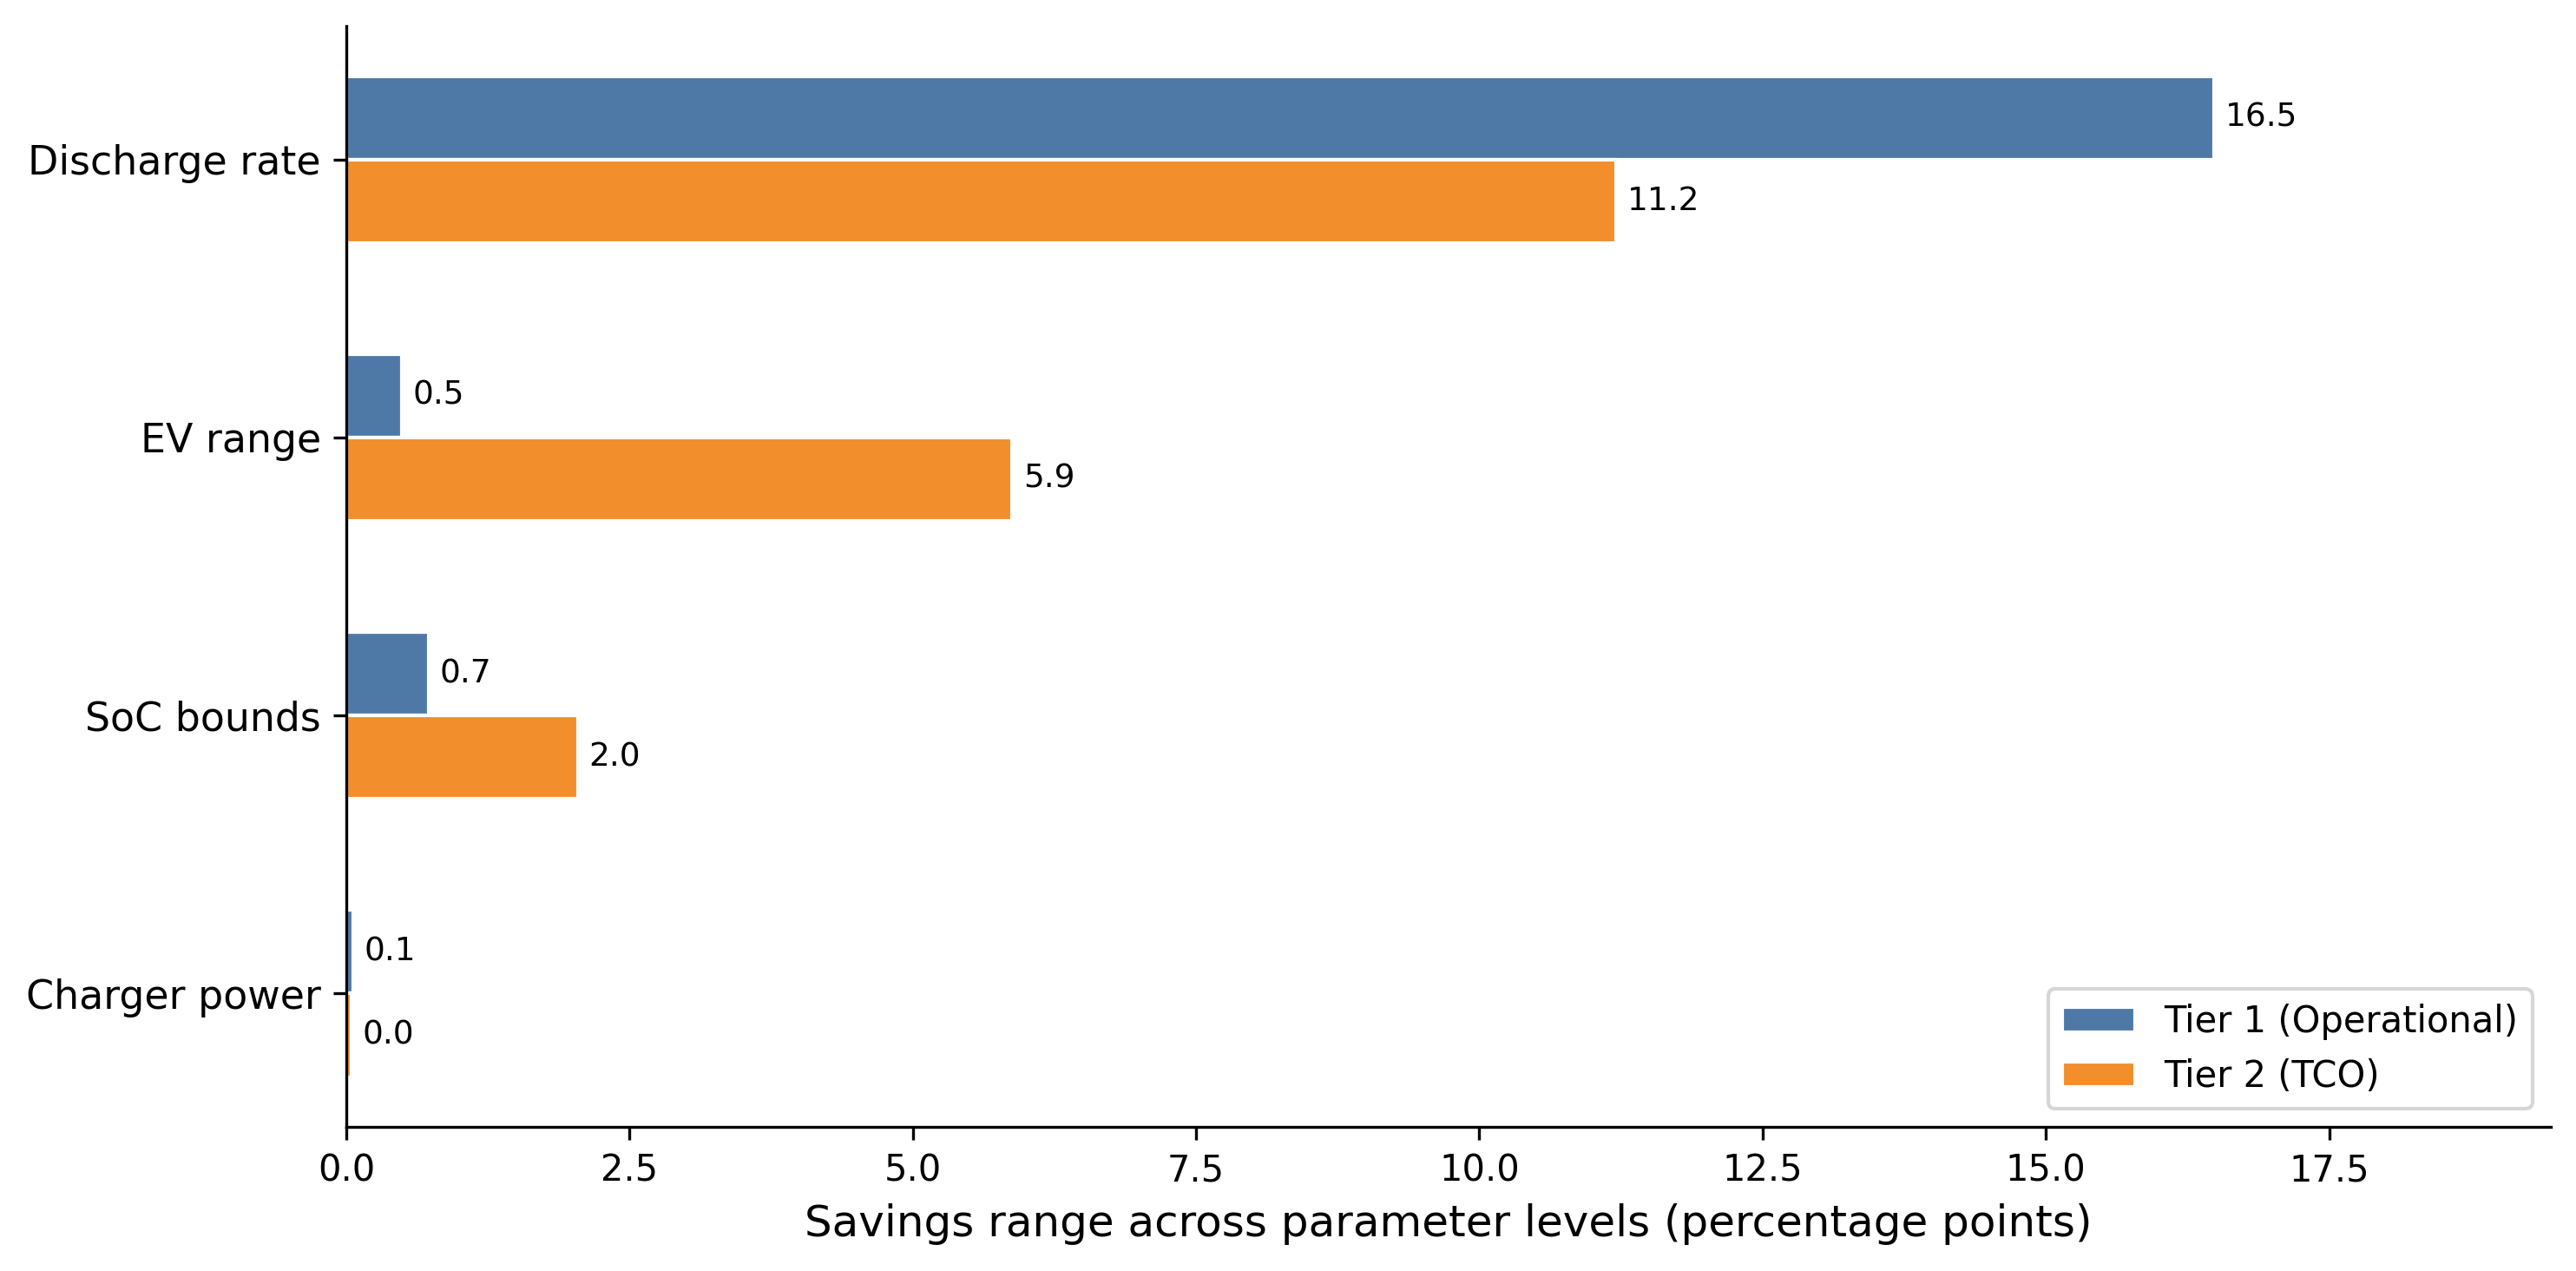
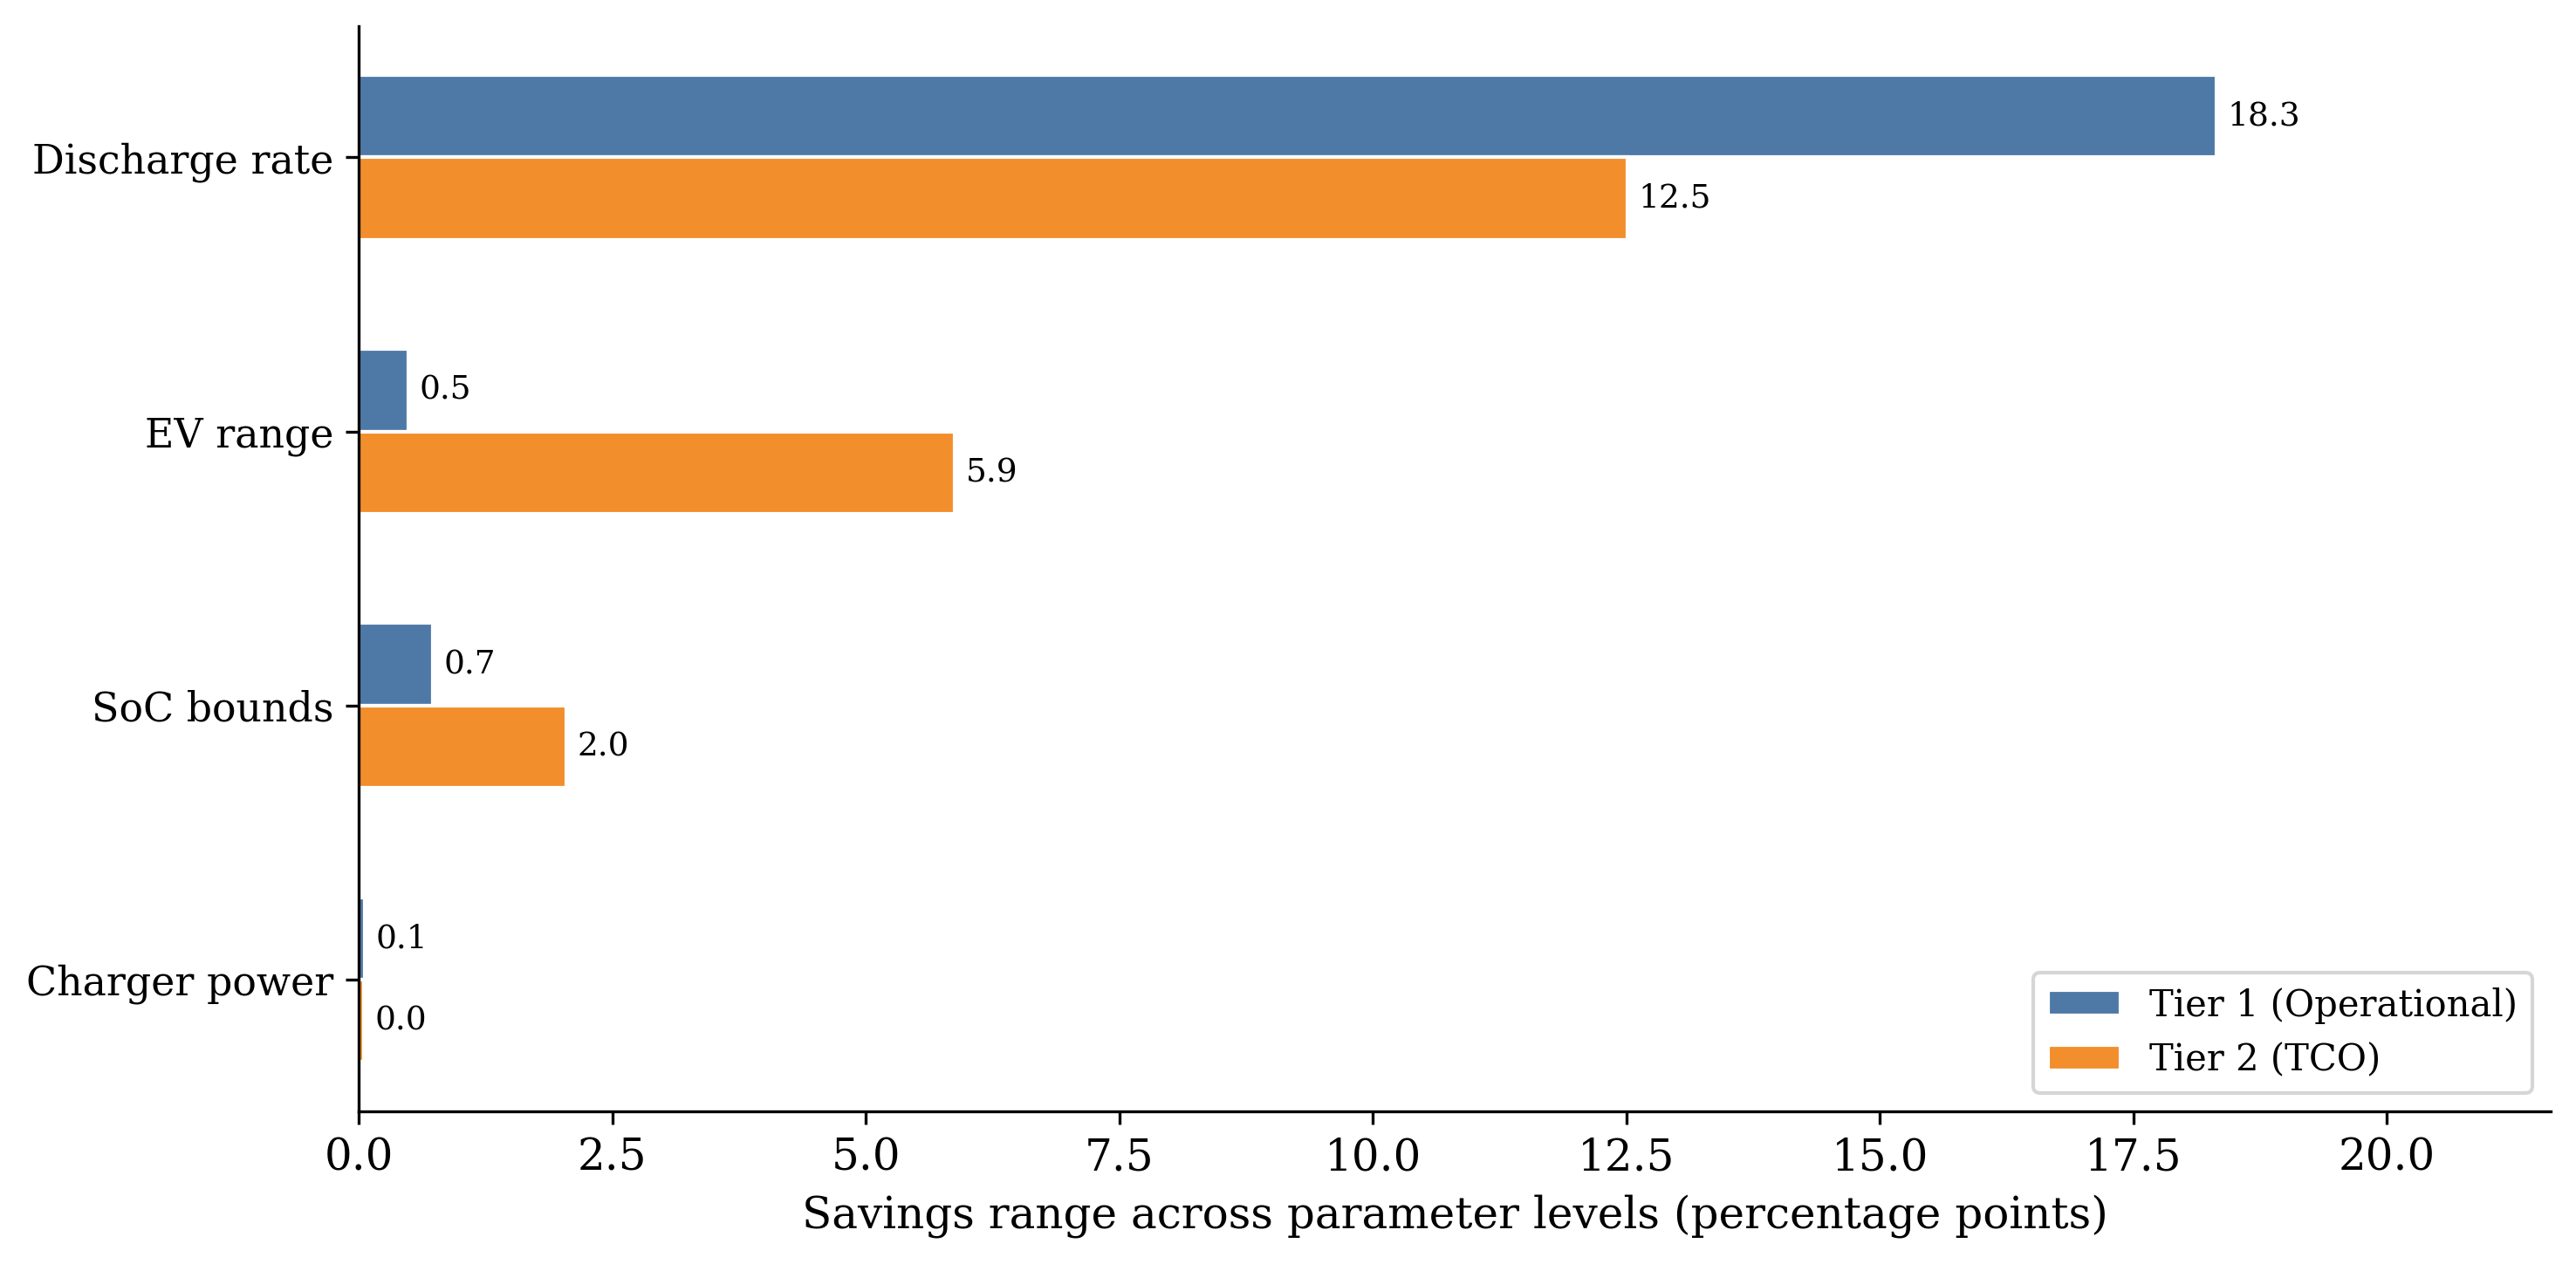
Update sensitivity analysis results and figures in trb_content.tex

Changed region(s): [[0.0, 0.0311, 0.9973, 0.9938], [0.6233, 0.1242, 0.6545, 0.1863], [0.8726, 0.0621, 0.9038, 0.0932]]

diff --git a/trb_content.tex b/trb_content.tex
@@ -267,7 +267,7 @@ To identify which EV technology and operational parameters most influence the vi
 
 The sensitivity analysis focuses on Tier~1 and Tier~2 outcomes. Tier~3 (Infrastructure) is excluded from the sensitivity sweeps because the per-trip infrastructure amortization term in \eqref{eq:t3ev} depends on the total plug count and estimated national vehicle count, which are fixed inputs unaffected by the four swept parameters. Tier~3 results are reported in the case study (\cref{sec:casestudy}), where charger power and plug count vary across scenarios.
 
-The discharge rate upper bound produces the largest economic sensitivity. Its Tier~2 span is 11.2 percentage points, ranging from $+12.5$\% at 250~Wh/km (baseline) to $+23.7$\% at 160~Wh/km, and its Tier~1 span reaches 16.5 percentage points (\cref{fig:sensitivity_summary,fig:sensitivity_tier2}). Lower discharge rates reduce electricity consumption per kilometer, directly cutting energy costs without altering feasibility, which remains at 100\% across all levels. This effect is amplified in T\"{u}rkiye by the high public charger electricity price (13~TL/kWh), making energy efficiency the most impactful lever for improving intercity EV cost competitiveness. The charging operations metrics (\cref{fig:sensitivity_ops}) confirm that discharge rate has no effect on the number of stops, detour time, or additional distance, reinforcing that its impact is purely economic rather than operational.
+The discharge rate upper bound produces the largest economic sensitivity. Its Tier~2 span is 12.5 percentage points, ranging from $+12.5$\% at 250~Wh/km (baseline) to $+25.0$\% at 150~Wh/km, and its Tier~1 span reaches 18.3 percentage points (\cref{fig:sensitivity_summary,fig:sensitivity_tier2}). Lower discharge rates reduce electricity consumption per kilometer, directly cutting energy costs without altering feasibility, which remains at 100\% across all levels. This effect is amplified in T\"{u}rkiye by the high public charger electricity price (13~TL/kWh), making energy efficiency the most impactful lever for improving intercity EV cost competitiveness. The charging operations metrics (\cref{fig:sensitivity_ops}) confirm that discharge rate has no effect on the number of stops, detour time, or additional distance, reinforcing that its impact is purely economic rather than operational.
 
 EV range produces the second-largest Tier~2 span at 5.9 percentage points, from $+10.2$\% (150--250~km) to $+16.1$\% (700--900~km). Under the baseline SoC operating window of 10--100\%, all range levels achieve 100\% feasibility, meaning that even short-range EVs can complete intercity trips through more frequent charging stops. The Tier~1 operational savings are nearly flat ($+26.2$\% to $+26.7$\%), indicating that range primarily affects the per-trip vehicle cost component through TCO amortization rather than energy or time consumption. Short-range vehicles require slightly more stops (7.6 vs.\ 6.0) and longer detours (5.6 vs.\ 3.4~min), but these operational differences are modest (\cref{fig:sensitivity_ops}).
 